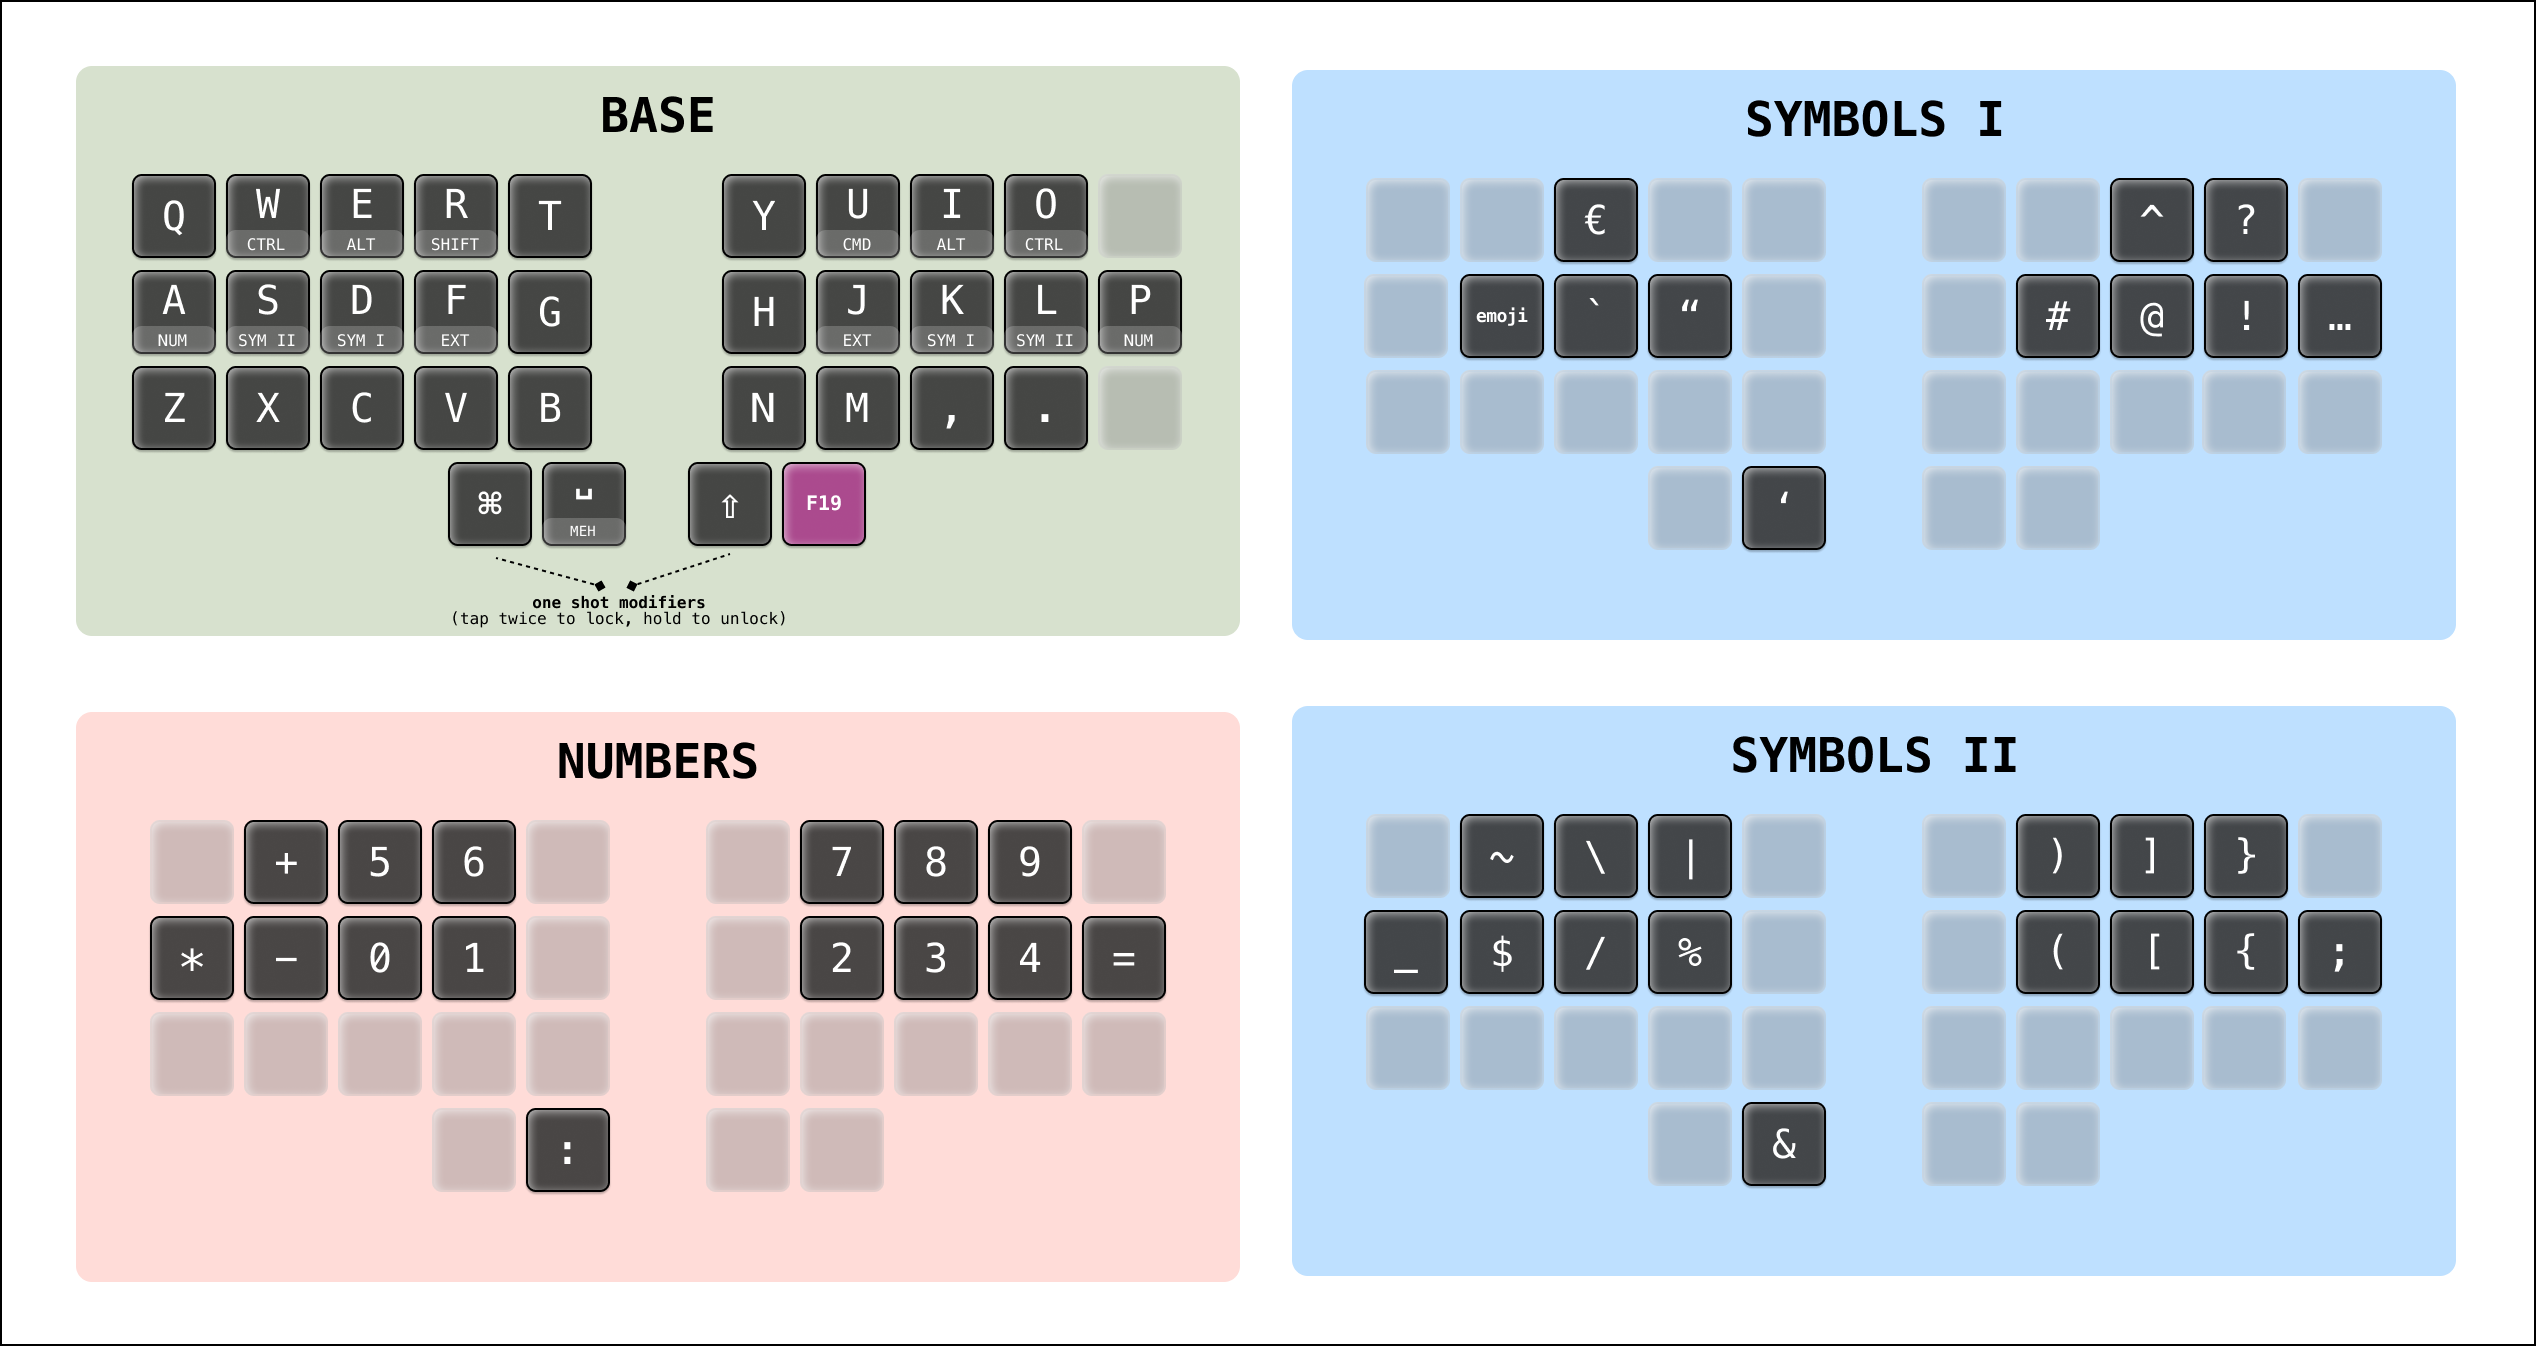
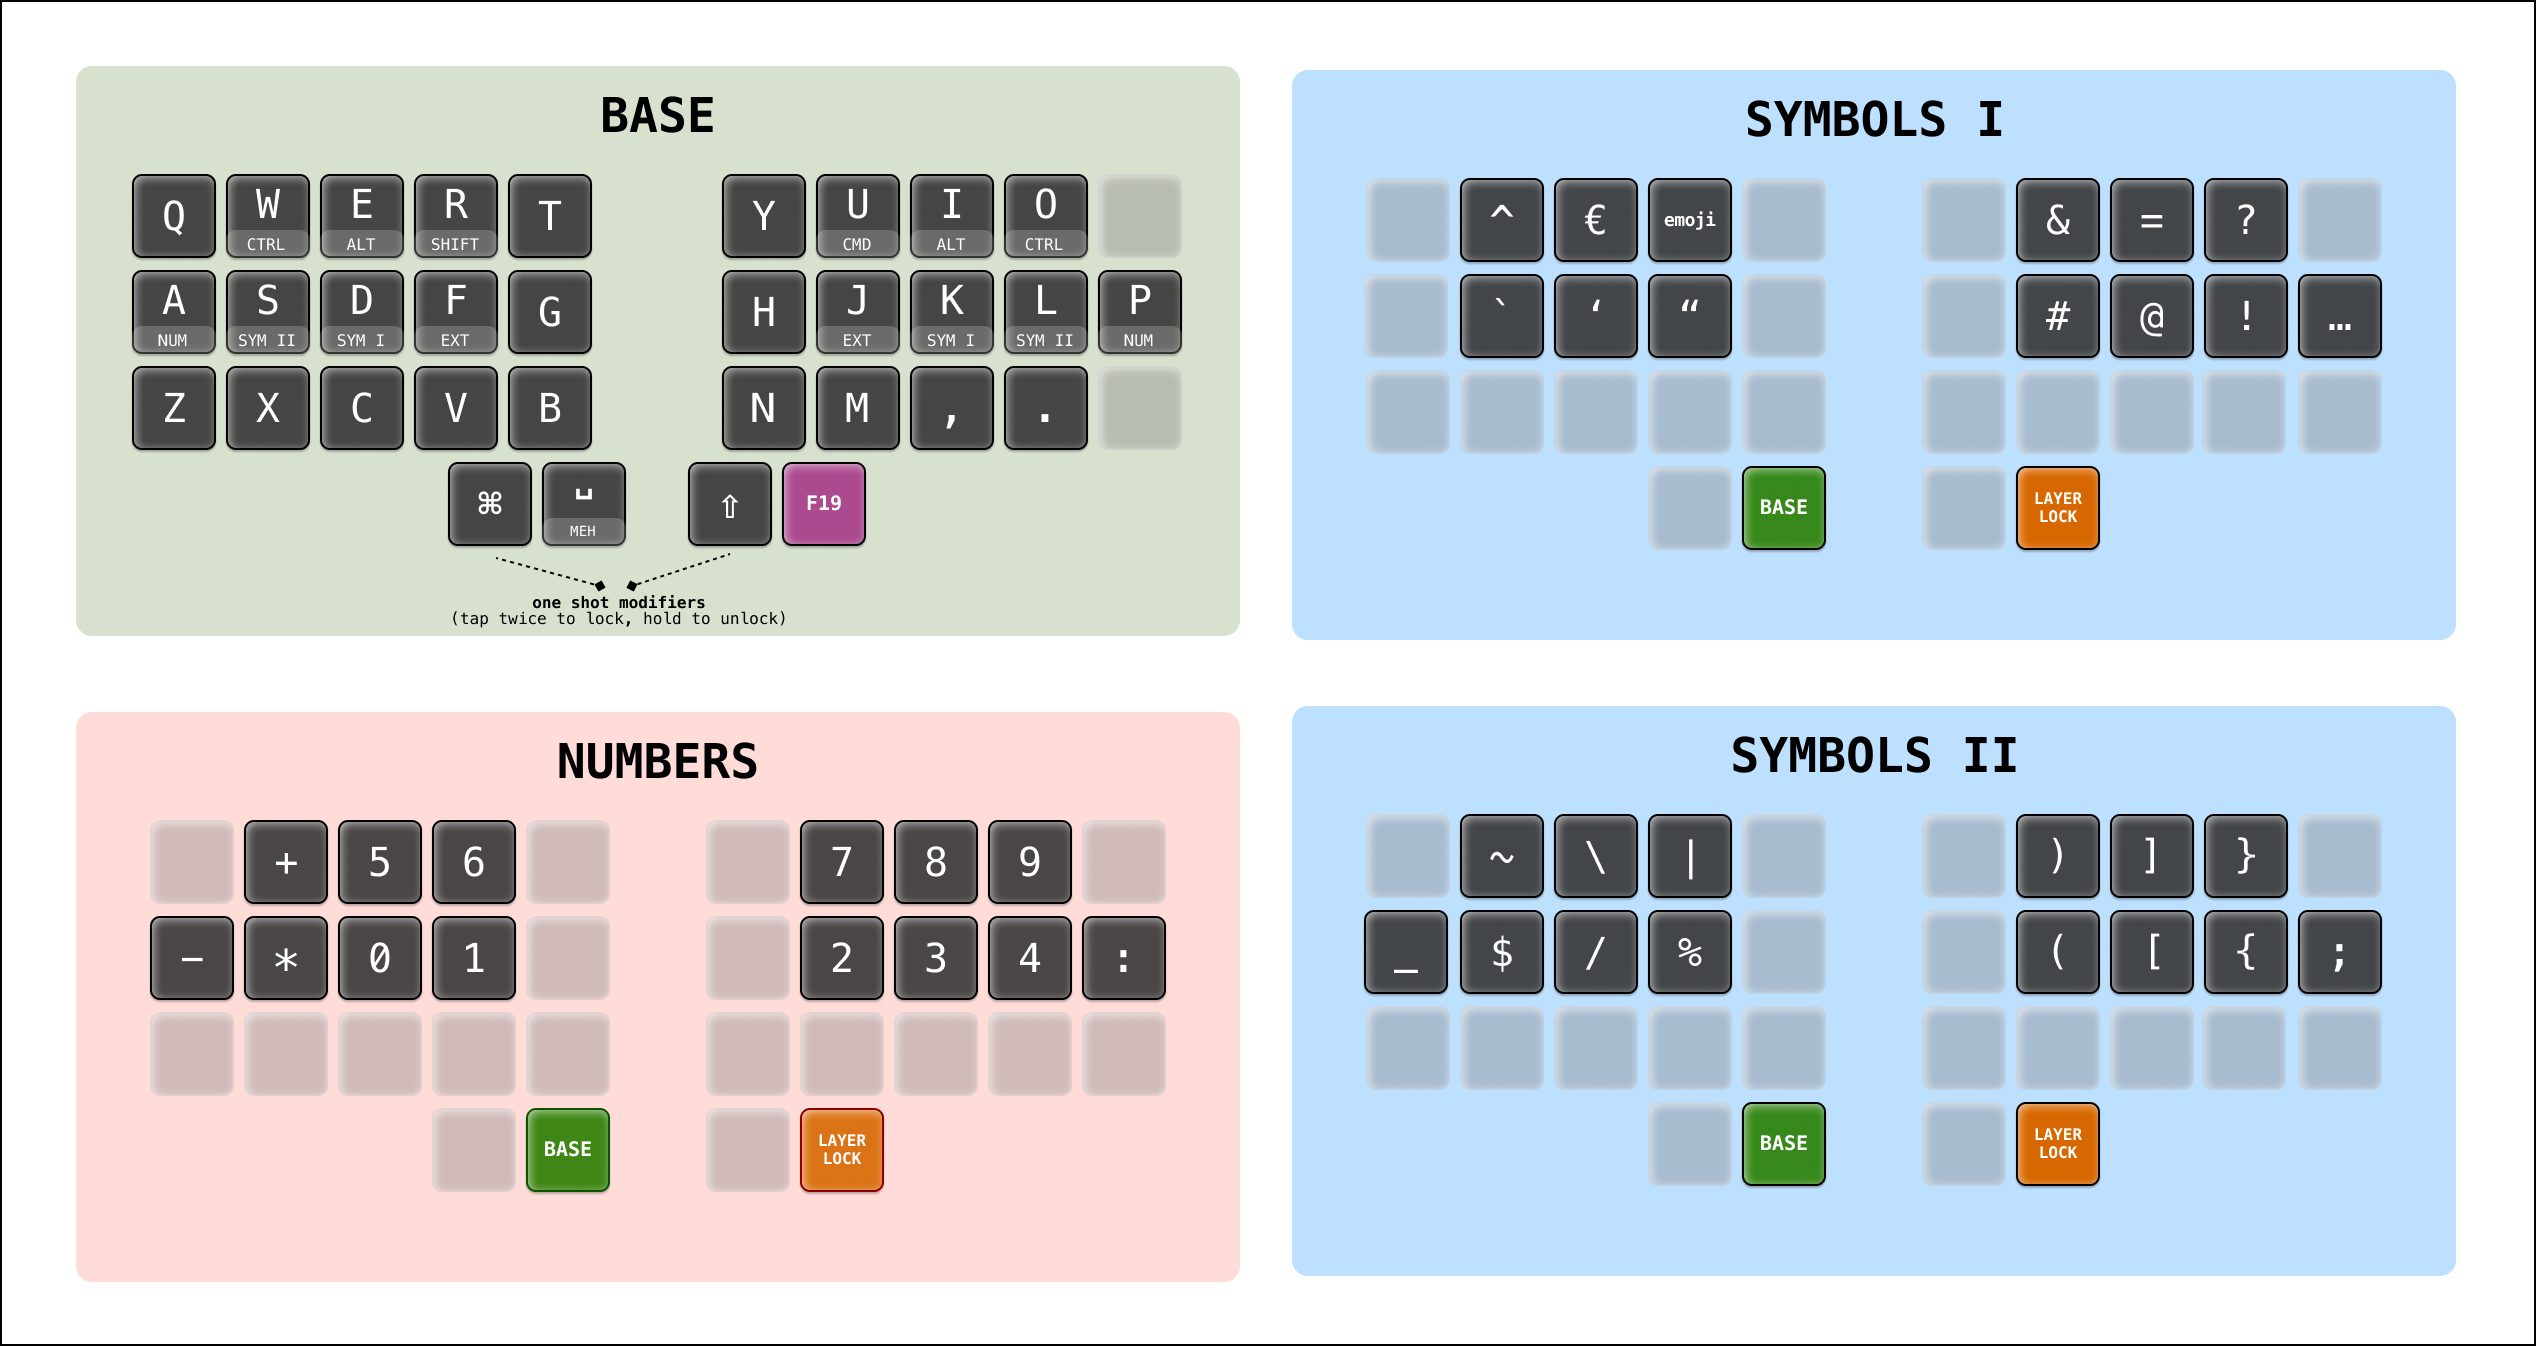
Introduced Layer Lock on all layers
Because of the introduction of Layer Lock on all layers, some symbols needed some reshuffling. For example, ampersand and equals are on different layer now.

diff --git a/totem/qweighteen.c b/totem/qweighteen.c
@@ -89,22 +89,22 @@ combo_t key_combos[] = {
 // Top row
 
 #define KR_1_1_1 KC_NO
-#define KR_1_1_2 KC_NO
+#define KR_1_1_2 KC_CIRC
 #define KR_1_1_3 A(KC_2) // €
-#define KR_1_1_4 KC_NO
+#define KR_1_1_4 S(KC_F19)
 #define KR_1_1_5 KC_NO
 
 #define KR_1_1_6 KC_NO
-#define KR_1_1_7 KC_NO
-#define KR_1_1_8 KC_CIRC
+#define KR_1_1_7 KC_AMPR
+#define KR_1_1_8 KC_PEQL
 #define KR_1_1_9 S(KC_SLASH) // ?
 #define KR_1_1_10 KC_NO
 
 // Mid row
 
 #define KR_1_2_1 KC_NO
-#define KR_1_2_2 S(KC_F19)
-#define KR_1_2_3 KC_GRAVE
+#define KR_1_2_2 KC_GRAVE
+#define KR_1_2_3 KC_QUOT
 #define KR_1_2_4 KC_DQUO
 #define KR_1_2_5 KC_NO
 //
@@ -132,10 +132,10 @@ combo_t key_combos[] = {
 
 #define KR_1_4_1 KC_TRNS
 #define KR_1_4_2 KC_TRNS
-#define KR_1_4_3 KC_QUOT
+#define KR_1_4_3 TO(0)
 
 #define KR_1_4_4 KC_TRNS
-#define KR_1_4_5 KC_TRNS
+#define KR_1_4_5 LLOCK
 #define KR_1_4_6 KC_TRNS
 
 // ############################################
@@ -188,10 +188,10 @@ combo_t key_combos[] = {
 
 #define KR_4_4_1 KC_TRNS
 #define KR_4_4_2 KC_TRNS
-#define KR_4_4_3 KC_AMPR
+#define KR_4_4_3 TO(0)
 
 #define KR_4_4_4 KC_TRNS
-#define KR_4_4_5 KC_TRNS
+#define KR_4_4_5 LLOCK
 #define KR_4_4_6 KC_TRNS
 
 // ############################################
@@ -214,8 +214,8 @@ combo_t key_combos[] = {
 #define KR_2_1_10 KC_NO
 
 
-#define KR_2_2_1 KC_ASTR
-#define KR_2_2_2 KC_MINUS
+#define KR_2_2_1 KC_MINUS
+#define KR_2_2_2 KC_ASTR
 #define KR_2_2_3 KC_0
 #define KR_2_2_4 KC_1
 #define KR_2_2_5 KC_NO
@@ -224,7 +224,7 @@ combo_t key_combos[] = {
 #define KR_2_2_7 KC_2
 #define KR_2_2_8 KC_3
 #define KR_2_2_9 KC_4
-#define KR_2_2_10 KC_PEQL
+#define KR_2_2_10 KC_COLN
 
 
 #define KR_2_3_1 KC_NO
@@ -244,10 +244,10 @@ combo_t key_combos[] = {
 
 #define KR_2_4_1 KC_TRNS
 #define KR_2_4_2 KC_TRNS
-#define KR_2_4_3 KC_COLN
+#define KR_2_4_3 TO(0)
 
 #define KR_2_4_4 KC_TRNS
-#define KR_2_4_5 KC_TRNS
+#define KR_2_4_5 LLOCK
 #define KR_2_4_6 KC_TRNS
 
 // ############################################
@@ -255,11 +255,10 @@ combo_t key_combos[] = {
 // ############################################
 
 // Top row
-
 #define KR_3_1_1 KC_NO
 #define KR_3_1_2 LCTL_T(KC_ESC)
-#define KR_3_1_3 LALT_T(KC_F18) // Mapped to main screenshot action in Cleanshot
-#define KR_3_1_4 LSFT_T(KC_F17)
+#define KR_3_1_3 LALT_T(KC_PGUP) 
+#define KR_3_1_4 LSFT_T(KC_F18) // Mapped to main screenshot action in Cleanshot
 #define KR_3_1_5 KC_NO
 //
 #define KR_3_1_6 KC_NO
@@ -272,7 +271,7 @@ combo_t key_combos[] = {
 
 #define KR_3_2_1 KC_TAB
 #define KR_3_2_2 KC_DELETE
-#define KR_3_2_3 LALT_T(KC_F20)
+#define KR_3_2_3 LALT_T(KC_PGDN)
 #define KR_3_2_4 CW_TOGG
 #define KR_3_2_5 KC_NO
 //
@@ -301,8 +300,6 @@ combo_t key_combos[] = {
 #define KR_3_4_1 KC_TRNS
 #define KR_3_4_2 KC_TRNS
 #define KR_3_4_3 TO(0)
-
 #define KR_3_4_4 KC_TRNS
 #define KR_3_4_5 LLOCK
 #define KR_3_4_6 KC_TRNS
-

diff --git a/README.md b/README.md
@@ -35,7 +35,7 @@ With this [QMK](https://beta.docs.qmk.fm) keymap I try to accomplish a couple of
 ### Todo's, needs and wants
 
 - I can do a lot more on the Extend layer for Mouse + keyboard use.
-- Find a place for page up and page down, media controls and F keys. Probably need new layer.
+- Find a place for media controls and F keys. Probably need new layer.
 - Learn to get value out of a repeat key. Tried it once, didn't stick. Could replace the leader key on right thumb.
 - Turn leader key in Layer Lock key on non-base layers.
 
